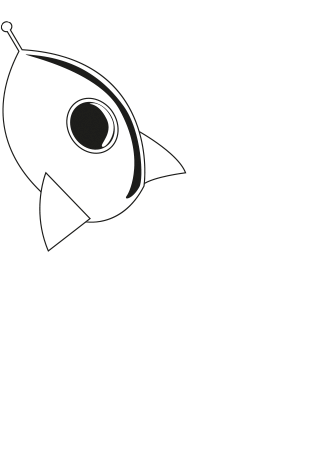
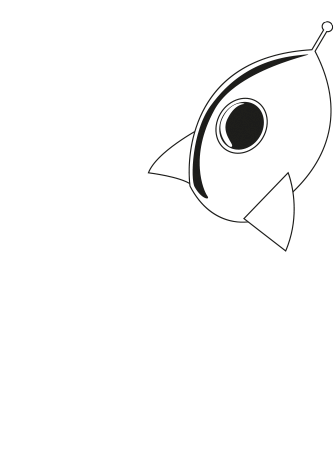
fixed spaceship on bottom

diff --git a/index/index.html b/index/index.html
@@ -195,19 +195,11 @@
     </div><!-- End inner container -->
   </div><!-- End Black Box-->
   <!-- Triangle DOWN -->
-  <div  style="position: relative; left: 0; top: 0;">
-    <img style="width:100%; position: relative; top: 0; left: 0;" src="../assets/img/triangledown.png">
-    <div style="width:960px; margin-bottom">
-      <div id="inner" style="width:200px; margin:0 auto; padding-top:220px;"><img id="spaceship-bottom" class="parallax hideable" style="height:200px; position: absolute; bottom: 0%;" src="../assets/img/spaceship_bottom.png"/></div>
-    </div>
-  </div><!-- End Triangle down -->
+  <div style="background-image:url('../assets/img/triangledown.png'); height:200px; text-align: right;">
+    <div class="hideable"> <img src="../assets/img/spaceship_bottom.png" style="height:200px;  padding-bottom:100px; margin-right:20%; " /></div>
+  </div>
+  <!-- End triangle down -->
 
-  <!-- <div style="position: relative; left: 0; top: 0; height:350px;background-image: url('../assets/img/triangledown.png'); background-repeat:no-repeat; width:100%">
-  </div>  -->
-  
-  <!-- <div class="parallax" style="background-color:blue; width: 1px; height:1px; padding:300px; background-image: url('../assets/img/spaceship_bottom.png');left:50%; margin 0 auto;">
-  </div> -->
 
-</div>
 </body>
 </html>
